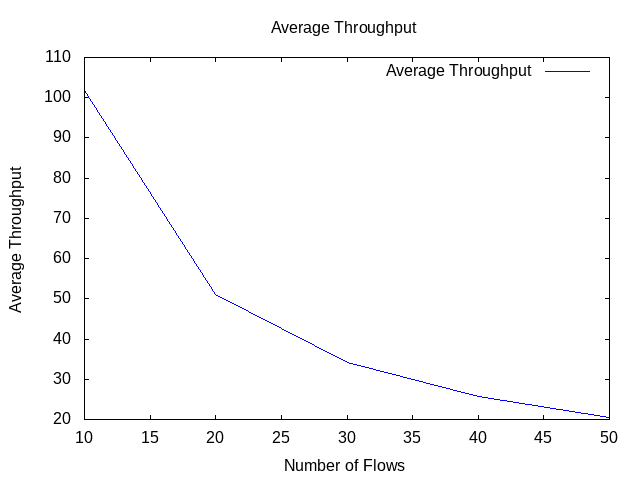
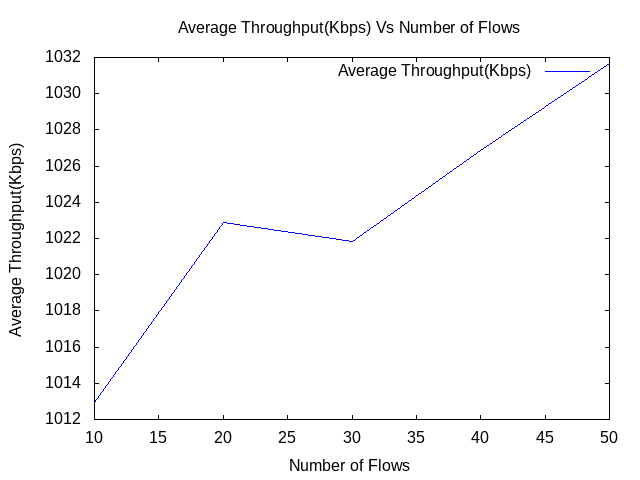
task a high throughput kome

diff --git a/ns-3.35/scratch/topology_for_task_a_high.cc b/ns-3.35/scratch/topology_for_task_a_high.cc
@@ -148,26 +148,6 @@ MyApp::ScheduleTx (void)
     }
 }
 
-// static void
-// CwndChange (Ptr<OutputStreamWrapper> stream,uint32_t oldCwnd, uint32_t newCwnd)
-// {
-//   // NS_LOG_UNCOND (Simulator::Now ().GetSeconds () << "\t" << newCwnd);
-//   *stream->GetStream()<<Simulator::Now ().GetSeconds () << "\t" << newCwnd<<std::endl;
-// }
-
-// static void
-// TraceCwnd (std::string cwnd_tr_file_name)
-// {
-//   AsciiTraceHelper ascii;
-//   static Ptr<OutputStreamWrapper> cWndStream = ascii.CreateFileStream (cwnd_tr_file_name.c_str ());
-//   Config::ConnectWithoutContext ("/NodeList/1/$ns3::TcpL4Protocol/SocketList/0/CongestionWindow", MakeCallback (&CwndChange));
-// }
-
-// static void
-// RxDrop (Ptr<const Packet> p)
-// {
-//   NS_LOG_UNCOND ("RxDrop at " << Simulator::Now ().GetSeconds ());
-// }
 
 int 
 main (int argc, char *argv[])
@@ -186,6 +166,9 @@ main (int argc, char *argv[])
   uint32_t nWifi ;
   uint32_t nWifiP;
   uint32_t nPackets=2000;//20000
+
+  nWifi = numHalfFlows;
+  nWifiP = nWifi;
  
  Config::SetDefault ("ns3::TcpSocket::SegmentSize", UintegerValue (packetSize));
 
@@ -219,15 +202,7 @@ main (int argc, char *argv[])
 
   std::string dataRate = std::to_string(packetsPerSecond*packetSize*8/1024) + "Kbps";
  
-  nWifi = numHalfFlows;
-  nWifiP = numHalfFlows;
-  
 
-  
-  // tcpVariant = std::string ("ns3::") + tcpVariant;
-  // TypeId tcpTid;
-  // NS_ABORT_MSG_UNLESS (TypeId::LookupByNameFailSafe (tcpVariant, &tcpTid), "TypeId " << tcpVariant << " not found");
-  // Config::SetDefault ("ns3::TcpL4Protocol::SocketType", TypeIdValue (TypeId::LookupByName (tcpVariant)));
   
   NodeContainer p2pNodes;
   p2pNodes.Create (2);
@@ -236,16 +211,6 @@ main (int argc, char *argv[])
   pointToPoint.SetDeviceAttribute ("DataRate", StringValue ("1Mbps"));
   pointToPoint.SetChannelAttribute ("Delay", StringValue ("2ms"));
 
-
-  //add error model
-
-  // Ptr<UniformRandomVariable> uv = CreateObject<UniformRandomVariable> ();
-  // uv->SetStream (50);
-  // RateErrorModel error_model;
-  // error_model.SetRandomVariable (uv);
-  // error_model.SetUnit (RateErrorModel::ERROR_UNIT_PACKET);
-  // error_model.SetRate (error_p);
-  // pointToPoint.SetDeviceAttribute ("ReceiveErrorModel", PointerValue (&error_model));
 
   NetDeviceContainer p2pDevices;
   p2pDevices = pointToPoint.Install (p2pNodes);
@@ -328,10 +293,6 @@ main (int argc, char *argv[])
   InternetStackHelper stack;
 
   stack.Install(p2pNodes);
-
-  // Ipv4StaticRoutingHelper staticRoutingHelper;
-  // stack.SetRoutingHelper (staticRoutingHelper);
-
   stack.Install (wifiStaNodes);
   stack.Install (wifiStaNodesP);
 
@@ -379,32 +340,40 @@ main (int argc, char *argv[])
 
   uint16_t sinkPort = 8000;
   ApplicationContainer sinkApps;
+
+  for(uint32_t i = 0; i < nWifi ; i++) {
+
+
+    PacketSinkHelper packetSinkHelper ("ns3::TcpSocketFactory", InetSocketAddress (Ipv4Address::GetAny (), sinkPort));
+    sinkApps.Add(packetSinkHelper.Install (wifiStaNodesP.Get (i))) ;
+    
+  }
+
+
+  sinkApps.Start (Seconds (0.));
+  sinkApps.Stop (Seconds (simulationTime+10));
+
+
+  uint32_t nSinkSourceNode=0;
   for(uint32_t i = 0; i < numHalfFlows ; i++) {
 
+    Address sinkAddress (InetSocketAddress (wifiStaInterfacesP.GetAddress (nSinkSourceNode), sinkPort));
 
-    
-    Address sinkAddress (InetSocketAddress (wifiStaInterfacesP.GetAddress (i), sinkPort));
-    PacketSinkHelper packetSinkHelper ("ns3::TcpSocketFactory", InetSocketAddress (Ipv4Address::GetAny (), sinkPort));
-    sinkApps = packetSinkHelper.Install (wifiStaNodesP.Get (i));
-    sinkApps.Start (Seconds (0.));
-    sinkApps.Stop (Seconds (simulationTime+10));
-
- 
-    Ptr<Socket> ns3TcpSocket = Socket::CreateSocket (wifiStaNodes.Get (i), TcpSocketFactory::GetTypeId ());
+    Ptr<Socket> ns3TcpSocket = Socket::CreateSocket (wifiStaNodes.Get (nSinkSourceNode), TcpSocketFactory::GetTypeId ());
     Ptr<MyApp> app = CreateObject<MyApp> ();
     app->Setup (ns3TcpSocket, sinkAddress, packetSize, nPackets, DataRate (dataRate));
-    wifiStaNodes.Get (i)->AddApplication (app);
+    wifiStaNodes.Get (nSinkSourceNode)->AddApplication (app);
     app->SetStartTime (Seconds (1.));
     app->SetStopTime (Seconds (simulationTime));
 
-      
-  
 
-    // AsciiTraceHelper ascii ;
-    // Ptr<OutputStreamWrapper> osw=ascii.CreateFileStream("data/cwnd"+tcpVariant+std::to_string(i));
-    
-    // ns3TcpSocket->TraceConnectWithoutContext ("CongestionWindow", MakeBoundCallback (&CwndChange,osw));
+    nSinkSourceNode=(nSinkSourceNode+1)%nWifi;
   }
+
+
+
+
+
   
 
  
@@ -413,7 +382,6 @@ main (int argc, char *argv[])
    
 
   Simulator::Run ();
-  // flowmonitor->SerializeToXmlFile("TopologyForTaskA.xml", true, true);
 
   int j = 0;
   float AvgThroughput = 0;
@@ -426,24 +394,22 @@ main (int argc, char *argv[])
 
   for (std::map<FlowId, FlowMonitor::FlowStats>::const_iterator iter = stats.begin(); iter != stats.end(); ++iter)
   {
-      // Ipv4FlowClassifier::FiveTuple t = classifier->FindFlow(iter->first);
+      Ipv4FlowClassifier::FiveTuple t = classifier->FindFlow(iter->first);
 
-      // NS_LOG_UNCOND("----Flow ID:" << iter->first);
-      // NS_LOG_UNCOND("Source Address (" << t.sourceAddress <<","<<t.sourcePort<< ") Destination Address (" << t.destinationAddress<<","<<t.destinationPort<< ")");
-      // NS_LOG_UNCOND("Sent Packets=" << iter->second.txPackets);
-      // NS_LOG_UNCOND("Received Packets =" << iter->second.rxPackets);
-      // // NS_LOG_UNCOND("Lost Packets =" << iter->second.txPackets - iter->second.rxPackets);
-      // NS_LOG_UNCOND("Lost Packets =" << iter->second.lostPackets);
+      NS_LOG_UNCOND("----Flow ID:" << iter->first);
+      NS_LOG_UNCOND("Source Address (" << t.sourceAddress <<","<<t.sourcePort<< ") Destination Address (" << t.destinationAddress<<","<<t.destinationPort<< ")");
+      NS_LOG_UNCOND("Sent Packets=" << iter->second.txPackets);
+      NS_LOG_UNCOND("Received Packets =" << iter->second.rxPackets);
+      NS_LOG_UNCOND("Lost Packets =" << iter->second.lostPackets);
 
-      // NS_LOG_UNCOND("Packet delivery ratio =" << iter->second.rxPackets * 100 / iter->second.txPackets << "%");
-      // NS_LOG_UNCOND("Packet loss ratio =" << (iter->second.txPackets - iter->second.rxPackets) * 100 / iter->second.txPackets << "%");
-      // NS_LOG_UNCOND("Delay =" << iter->second.delaySum);
-      // NS_LOG_UNCOND("Jitter =" << iter->second.jitterSum);
-      // NS_LOG_UNCOND("Throughput =" << iter->second.rxBytes * 8.0 / (iter->second.timeLastRxPacket.GetSeconds() - iter->second.timeFirstTxPacket.GetSeconds()) / 1024 << "Kbps");
-      // std::cout<<"\n";
+      NS_LOG_UNCOND("Packet delivery ratio =" << iter->second.rxPackets * 100 / iter->second.txPackets << "%");
+      NS_LOG_UNCOND("Packet loss ratio =" << (iter->second.txPackets - iter->second.rxPackets) * 100 / iter->second.txPackets << "%");
+      NS_LOG_UNCOND("Delay =" << iter->second.delaySum);
+      NS_LOG_UNCOND("Jitter =" << iter->second.jitterSum);
+      NS_LOG_UNCOND("Throughput =" << iter->second.rxBytes * 8.0 / (iter->second.timeLastRxPacket.GetSeconds() - iter->second.timeFirstTxPacket.GetSeconds()) / 1024 << "Kbps");
+      std::cout<<"\n";
       SentPackets = SentPackets + (iter->second.txPackets);
       ReceivedPackets = ReceivedPackets + (iter->second.rxPackets);
-      // LostPackets = LostPackets + (iter->second.txPackets - iter->second.rxPackets);
       LostPackets = LostPackets + (iter->second.lostPackets);
 
       AvgThroughput = AvgThroughput + (iter->second.rxBytes * 8.0 / (iter->second.timeLastRxPacket.GetSeconds() - iter->second.timeFirstTxPacket.GetSeconds()) )/ 1024;
@@ -460,7 +426,7 @@ main (int argc, char *argv[])
   float DropRatio=(100.0*LostPackets)/SentPackets;
   
   uint32_t totalFlows=2*numHalfFlows;
-  AvgThroughput = AvgThroughput /totalFlows;
+  double AvgThroughputPerflow = AvgThroughput /totalFlows;
   Time  avgDelay=Delay/ReceivedPackets;
 
 
@@ -483,21 +449,25 @@ main (int argc, char *argv[])
 
 
 
-  // std::ofstream AvgThroughputFileVsNumFlows;
-  // AvgThroughputFileVsNumFlows.open("dataTaskA1/AvgThroughputFileVsNumFlows",std::ios_base::app);
-  // AvgThroughputFileVsNumFlows<<totalFlows<<" "<<AvgThroughput<<std::endl;
+  std::ofstream AvgThroughputFileVsNumFlows;
+  AvgThroughputFileVsNumFlows.open("dataTaskA1/AvgThroughputFileVsNumFlows",std::ios_base::app);
+  AvgThroughputFileVsNumFlows<<totalFlows<<" "<<AvgThroughput<<std::endl;
 
-  // std::ofstream DeliveryRatioFileVsNumFlows;
-  // DeliveryRatioFileVsNumFlows.open("dataTaskA1/DeliveryRatioFileVsNumFlows",std::ios_base::app);
-  // DeliveryRatioFileVsNumFlows<<totalFlows<<" "<<DeliveryRatio<<std::endl;
+  std::ofstream AvgThroughputPerflowFileVsNumFlows;
+  AvgThroughputPerflowFileVsNumFlows.open("dataTaskA1/AvgThroughputPerflowFileVsNumFlows",std::ios_base::app);
+  AvgThroughputPerflowFileVsNumFlows<<totalFlows<<" "<<AvgThroughputPerflow<<std::endl;
 
-  //   std::ofstream DropRatioFileVsNumFlows;
-  // DropRatioFileVsNumFlows.open("dataTaskA1/DropRatioFileVsNumFlows",std::ios_base::app);
-  //  DropRatioFileVsNumFlows<<totalFlows<<" "<<DropRatio<<std::endl;
+  std::ofstream DeliveryRatioFileVsNumFlows;
+  DeliveryRatioFileVsNumFlows.open("dataTaskA1/DeliveryRatioFileVsNumFlows",std::ios_base::app);
+  DeliveryRatioFileVsNumFlows<<totalFlows<<" "<<DeliveryRatio<<std::endl;
 
-  //    std::ofstream DelayFileVsNumFlows;
-  // DelayFileVsNumFlows.open("dataTaskA1/DelayFileVsNumFlows",std::ios_base::app);
-  //  DelayFileVsNumFlows<<totalFlows<<" "<<avgDelay<<std::endl;
+    std::ofstream DropRatioFileVsNumFlows;
+  DropRatioFileVsNumFlows.open("dataTaskA1/DropRatioFileVsNumFlows",std::ios_base::app);
+   DropRatioFileVsNumFlows<<totalFlows<<" "<<DropRatio<<std::endl;
+
+     std::ofstream DelayFileVsNumFlows;
+  DelayFileVsNumFlows.open("dataTaskA1/DelayFileVsNumFlows",std::ios_base::app);
+   DelayFileVsNumFlows<<totalFlows<<" "<<avgDelay<<std::endl;
 
 
 
@@ -556,15 +526,6 @@ main (int argc, char *argv[])
 
 
 
-
-
-
-
-
-
-
-
-
   NS_LOG_UNCOND("--------Total Results of the simulation----------for "<< txRange*MaxCoverageRange<< std::endl);
   NS_LOG_UNCOND("Total sent packets  =" << SentPackets);
   NS_LOG_UNCOND("Total Received Packets =" << ReceivedPackets);
@@ -578,20 +539,6 @@ main (int argc, char *argv[])
   NS_LOG_UNCOND("Total Flow " << j);
   NS_LOG_UNCOND("\n");
   Simulator::Destroy ();
-
-//   Ptr<Ipv4FlowClassifier> classifier=DynamicCast<Ipv4FlowClassifier>(flowmonitorhelper.GetClassifier ());
-//   FlowMonitor::FlowStatsContainer stats= flowmonitor->GetFlowStats();
-
-//   for (auto iter = stats.begin(); iter!=stats.end(); ++iter)
-//   {
-//     Ipv4FlowClassifier::FiveTuple flowid=classifier->FindFlow(iter->first);
-    
-    
-//     NS_LOG_UNCOND("Protocol : "<<flowid.protocol<<" SRC: IP > "<<flowid.sourceAddress<<" PORT > "<<flowid.sourcePort<<"---------- DST: IP> "<<flowid.destinationAddress<<" PORT > "<<flowid.destinationPort);
-    
-//   }
-
-
 
 
   
